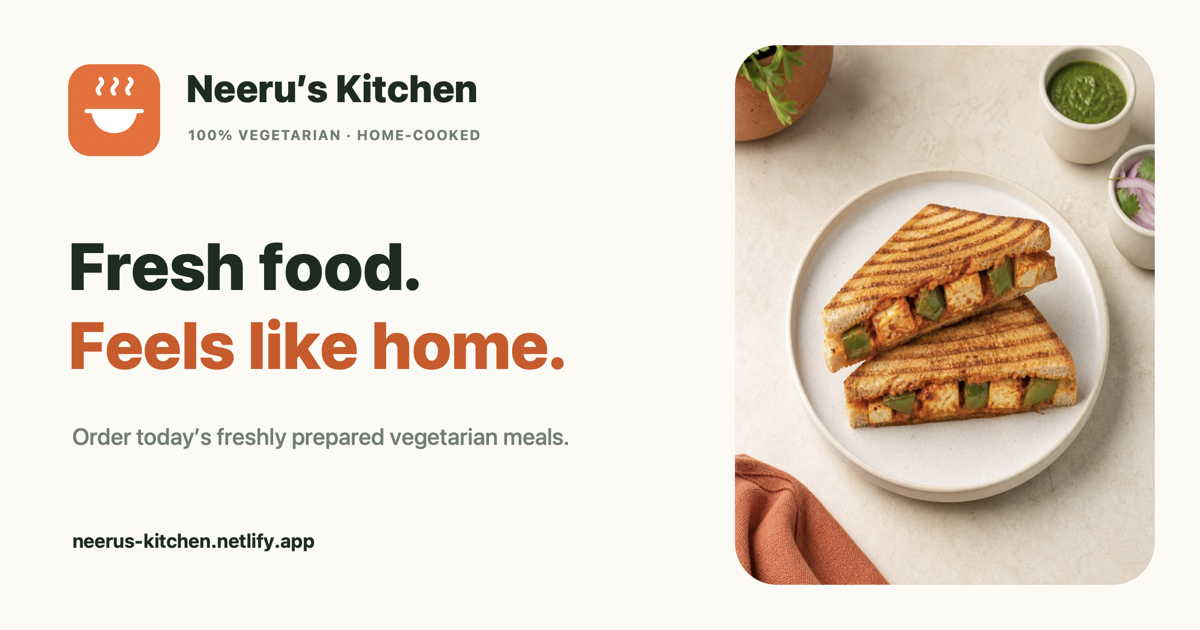
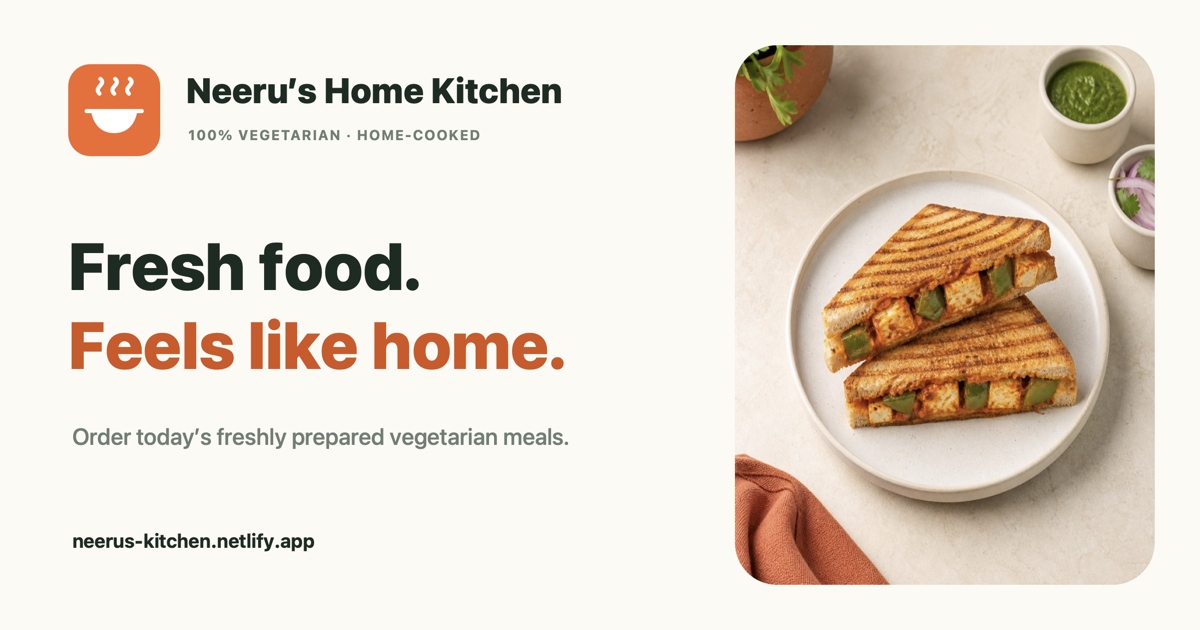
Rename app to Neeru's Home Kitchen

Changed region(s): [[0.1542, 0.1206, 0.4625, 0.181]]

diff --git a/admin.html b/admin.html
@@ -6,31 +6,31 @@
     <meta name="color-scheme" content="light" />
     <meta name="theme-color" content="#ee5728" />
     <meta name="apple-mobile-web-app-status-bar-style" content="default" />
-    <meta name="description" content="Private family order management for Neeru’s Kitchen." />
+    <meta name="description" content="Private family order management for Neeru’s Home Kitchen." />
     <link rel="canonical" href="https://neerus-kitchen.netlify.app/admin" />
     <meta property="og:type" content="website" />
-    <meta property="og:url" content="https://neerus-kitchen.netlify.app/admin?share=4" />
-    <meta property="og:site_name" content="Neeru’s Kitchen" />
-    <meta property="og:title" content="Neeru’s Kitchen · Family Order Desk" />
-    <meta property="og:description" content="Private family access to manage Neeru’s Kitchen orders." />
-    <meta property="og:image" content="https://neerus-kitchen.netlify.app/neerus-kitchen-whatsapp-v4.jpg" />
-    <meta property="og:image:url" content="https://neerus-kitchen.netlify.app/neerus-kitchen-whatsapp-v4.jpg" />
-    <meta property="og:image:secure_url" content="https://neerus-kitchen.netlify.app/neerus-kitchen-whatsapp-v4.jpg" />
+    <meta property="og:url" content="https://neerus-kitchen.netlify.app/admin?share=5" />
+    <meta property="og:site_name" content="Neeru’s Home Kitchen" />
+    <meta property="og:title" content="Neeru’s Home Kitchen · Family Order Desk" />
+    <meta property="og:description" content="Private family access to manage Neeru’s Home Kitchen orders." />
+    <meta property="og:image" content="https://neerus-kitchen.netlify.app/neerus-home-kitchen-whatsapp-v5.jpg" />
+    <meta property="og:image:url" content="https://neerus-kitchen.netlify.app/neerus-home-kitchen-whatsapp-v5.jpg" />
+    <meta property="og:image:secure_url" content="https://neerus-kitchen.netlify.app/neerus-home-kitchen-whatsapp-v5.jpg" />
     <meta property="og:image:type" content="image/jpeg" />
     <meta property="og:image:width" content="1200" />
     <meta property="og:image:height" content="1200" />
-    <meta property="og:image:alt" content="Neeru’s Kitchen — fresh vegetarian food that feels like home" />
+    <meta property="og:image:alt" content="Neeru’s Home Kitchen — fresh vegetarian food that feels like home" />
     <meta name="twitter:card" content="summary_large_image" />
-    <meta name="twitter:title" content="Neeru’s Kitchen · Family Order Desk" />
-    <meta name="twitter:description" content="Private family access to manage Neeru’s Kitchen orders." />
-    <meta name="twitter:image" content="https://neerus-kitchen.netlify.app/neerus-kitchen-whatsapp-v4.jpg" />
-    <meta name="twitter:image:alt" content="Neeru’s Kitchen — fresh vegetarian food that feels like home" />
-    <link rel="image_src" href="https://neerus-kitchen.netlify.app/neerus-kitchen-whatsapp-v4.jpg" />
-    <meta itemprop="image" content="https://neerus-kitchen.netlify.app/neerus-kitchen-whatsapp-v4.jpg" />
+    <meta name="twitter:title" content="Neeru’s Home Kitchen · Family Order Desk" />
+    <meta name="twitter:description" content="Private family access to manage Neeru’s Home Kitchen orders." />
+    <meta name="twitter:image" content="https://neerus-kitchen.netlify.app/neerus-home-kitchen-whatsapp-v5.jpg" />
+    <meta name="twitter:image:alt" content="Neeru’s Home Kitchen — fresh vegetarian food that feels like home" />
+    <link rel="image_src" href="https://neerus-kitchen.netlify.app/neerus-home-kitchen-whatsapp-v5.jpg" />
+    <meta itemprop="image" content="https://neerus-kitchen.netlify.app/neerus-home-kitchen-whatsapp-v5.jpg" />
     <link rel="icon" href="/favicon.svg" type="image/svg+xml" />
     <link rel="apple-touch-icon" href="/apple-touch-icon.png" />
     <link rel="manifest" href="/site.webmanifest" />
-    <title>Neeru’s Kitchen · Family Order Desk</title>
+    <title>Neeru’s Home Kitchen · Family Order Desk</title>
   </head>
   <body>
     <div id="root"></div>

diff --git a/index.html b/index.html
@@ -6,31 +6,31 @@
     <meta name="color-scheme" content="light" />
     <meta name="theme-color" content="#ee5728" />
     <meta name="apple-mobile-web-app-status-bar-style" content="default" />
-    <meta name="description" content="Fresh vegetarian home-cooked meals, prepared with care by Neeru’s Kitchen." />
+    <meta name="description" content="Fresh vegetarian home-cooked meals, prepared with care by Neeru’s Home Kitchen." />
     <link rel="canonical" href="https://neerus-kitchen.netlify.app/" />
     <meta property="og:type" content="website" />
-    <meta property="og:url" content="https://neerus-kitchen.netlify.app/?share=4" />
-    <meta property="og:site_name" content="Neeru’s Kitchen" />
-    <meta property="og:title" content="Neeru’s Kitchen · Vegetarian Home Kitchen" />
+    <meta property="og:url" content="https://neerus-kitchen.netlify.app/?share=5" />
+    <meta property="og:site_name" content="Neeru’s Home Kitchen" />
+    <meta property="og:title" content="Neeru’s Home Kitchen · Vegetarian Meals" />
     <meta property="og:description" content="Fresh vegetarian home-cooked meals, prepared with care. See today’s menu and order online." />
-    <meta property="og:image" content="https://neerus-kitchen.netlify.app/neerus-kitchen-whatsapp-v4.jpg" />
-    <meta property="og:image:url" content="https://neerus-kitchen.netlify.app/neerus-kitchen-whatsapp-v4.jpg" />
-    <meta property="og:image:secure_url" content="https://neerus-kitchen.netlify.app/neerus-kitchen-whatsapp-v4.jpg" />
+    <meta property="og:image" content="https://neerus-kitchen.netlify.app/neerus-home-kitchen-whatsapp-v5.jpg" />
+    <meta property="og:image:url" content="https://neerus-kitchen.netlify.app/neerus-home-kitchen-whatsapp-v5.jpg" />
+    <meta property="og:image:secure_url" content="https://neerus-kitchen.netlify.app/neerus-home-kitchen-whatsapp-v5.jpg" />
     <meta property="og:image:type" content="image/jpeg" />
     <meta property="og:image:width" content="1200" />
     <meta property="og:image:height" content="1200" />
-    <meta property="og:image:alt" content="Neeru’s Kitchen — fresh vegetarian food that feels like home" />
+    <meta property="og:image:alt" content="Neeru’s Home Kitchen — fresh vegetarian food that feels like home" />
     <meta name="twitter:card" content="summary_large_image" />
-    <meta name="twitter:title" content="Neeru’s Kitchen · Vegetarian Home Kitchen" />
+    <meta name="twitter:title" content="Neeru’s Home Kitchen · Vegetarian Meals" />
     <meta name="twitter:description" content="Fresh vegetarian home-cooked meals, prepared with care." />
-    <meta name="twitter:image" content="https://neerus-kitchen.netlify.app/neerus-kitchen-whatsapp-v4.jpg" />
-    <meta name="twitter:image:alt" content="Neeru’s Kitchen — fresh vegetarian food that feels like home" />
-    <link rel="image_src" href="https://neerus-kitchen.netlify.app/neerus-kitchen-whatsapp-v4.jpg" />
-    <meta itemprop="image" content="https://neerus-kitchen.netlify.app/neerus-kitchen-whatsapp-v4.jpg" />
+    <meta name="twitter:image" content="https://neerus-kitchen.netlify.app/neerus-home-kitchen-whatsapp-v5.jpg" />
+    <meta name="twitter:image:alt" content="Neeru’s Home Kitchen — fresh vegetarian food that feels like home" />
+    <link rel="image_src" href="https://neerus-kitchen.netlify.app/neerus-home-kitchen-whatsapp-v5.jpg" />
+    <meta itemprop="image" content="https://neerus-kitchen.netlify.app/neerus-home-kitchen-whatsapp-v5.jpg" />
     <link rel="icon" href="/favicon.svg" type="image/svg+xml" />
     <link rel="apple-touch-icon" href="/apple-touch-icon.png" />
     <link rel="manifest" href="/site.webmanifest" />
-    <title>Neeru’s Kitchen · Vegetarian Home Kitchen</title>
+    <title>Neeru’s Home Kitchen · Vegetarian Meals</title>
   </head>
   <body>
     <div id="root"></div>

diff --git a/src/storefront.tsx b/src/storefront.tsx
@@ -109,7 +109,7 @@ const defaultSettings: StoreSettings = {
   ordering_open: true,
   hero_message: "Fresh home-style food, prepared with care and delivered to your door.",
   upi_id: "krsnasolo@okicici",
-  merchant_name: "Neeru's Kitchen",
+  merchant_name: "Neeru's Home Kitchen",
   order_cutoff: null,
   whatsapp_number: "918483000013",
 };
@@ -223,7 +223,7 @@ export function Storefront() {
     if (!data) return;
     const next = data as Profile;
     if (next.access_status !== "approved") {
-      setNotice(next.access_status === "rejected" ? "This access request was declined. Please contact Neeru’s Kitchen." : "Your account is waiting for kitchen approval.");
+      setNotice(next.access_status === "rejected" ? "This access request was declined. Please contact Neeru’s Home Kitchen." : "Your account is waiting for kitchen approval.");
       await supabase.auth.signOut();
       return;
     }
@@ -252,7 +252,7 @@ export function Storefront() {
     ? `+91 ${whatsappNumber.slice(2, 7)} ${whatsappNumber.slice(7)}`
     : whatsappNumber ? `+${whatsappNumber}` : "";
   const whatsappHref = whatsappNumber
-    ? `https://wa.me/${whatsappNumber}?text=${encodeURIComponent("Hi Neeru's Kitchen, I have a question about today's menu or my order.")}`
+    ? `https://wa.me/${whatsappNumber}?text=${encodeURIComponent("Hi Neeru's Home Kitchen, I have a question about today's menu or my order.")}`
     : "";
 
   function setQuantity(id: string, quantity: number) {
@@ -284,9 +284,9 @@ export function Storefront() {
       </button>
       <div className="storefront">
       <header className="store-header">
-        <button className="store-brand" onClick={() => go("menu")}><StoreLogo /><span><strong>Neeru’s Kitchen</strong><small>100% VEGETARIAN · HOME-COOKED</small></span></button>
+        <button className="store-brand" onClick={() => go("menu")}><StoreLogo /><span><strong>Neeru’s Home Kitchen</strong><small>100% VEGETARIAN · HOME-COOKED</small></span></button>
         <div className="store-header-actions">
-          {whatsappHref && <a className="store-contact-link" href={whatsappHref} target="_blank" rel="noreferrer" aria-label={`Contact Neeru's Kitchen on WhatsApp ${whatsappDisplay}`}><MessageCircle /><span>WhatsApp</span></a>}
+          {whatsappHref && <a className="store-contact-link" href={whatsappHref} target="_blank" rel="noreferrer" aria-label={`Contact Neeru's Home Kitchen on WhatsApp ${whatsappDisplay}`}><MessageCircle /><span>WhatsApp</span></a>}
           <a className="family-link" href="/admin">Family desk</a>
           <button className={`header-cart-button ${view === "cart" ? "active" : ""}`} onClick={() => go("cart")} aria-label={cartCount ? `Cart, ${cartCount} items, ${formatMoney(cartTotal)}` : "Cart, empty"}>
             <span className="header-cart-icon"><ShoppingBag />{cartCount > 0 && <b>{cartCount}</b>}</span>
@@ -325,10 +325,10 @@ export function Storefront() {
         <button className={`cart-nav ${view === "cart" ? "active" : ""}`} onClick={() => go("cart")}><span className="cart-icon"><ShoppingBag />{cartCount > 0 && <b>{cartCount}</b>}</span><span>Cart</span></button>
       </nav>
 
-      {authOpen && <CustomerAuth onClose={() => setAuthOpen(false)} onSuccess={() => { setAuthOpen(false); setNotice("Welcome to Neeru’s Kitchen."); }} />}
+      {authOpen && <CustomerAuth onClose={() => setAuthOpen(false)} onSuccess={() => { setAuthOpen(false); setNotice("Welcome to Neeru’s Home Kitchen."); }} />}
       {checkoutOpen && profile && <CheckoutModal lines={cartLines} total={cartTotal} profile={profile} settings={settings} onClose={() => setCheckoutOpen(false)} onEditProfile={() => { setCheckoutOpen(false); setView("account"); }} onPlaced={(order) => { setCheckoutOpen(false); setPlacedOrder(order); setCart({}); loadOrders(); }} />}
       {placedOrder && <PaymentModal order={placedOrder} settings={settings} onClose={() => { setPlacedOrder(null); go("orders"); }} />}
-      {whatsappHref && <a className="store-whatsapp" href={whatsappHref} target="_blank" rel="noreferrer" aria-label="Message Neeru's Kitchen on WhatsApp" title={`WhatsApp ${whatsappDisplay}`}><MessageCircle /><span><b>WhatsApp us</b><small>{whatsappDisplay}</small></span></a>}
+      {whatsappHref && <a className="store-whatsapp" href={whatsappHref} target="_blank" rel="noreferrer" aria-label="Message Neeru's Home Kitchen on WhatsApp" title={`WhatsApp ${whatsappDisplay}`}><MessageCircle /><span><b>WhatsApp us</b><small>{whatsappDisplay}</small></span></a>}
       </div>
     </div>
   );
@@ -351,7 +351,7 @@ function CartView({ lines, total, orderingOpen, onQuantity, onBack, onCheckout }
 }
 
 function OrdersView({ orders, onBack }: { orders: CustomerOrder[]; onBack: () => void }) {
-  return <section className="store-subpage"><button className="store-back" onClick={onBack}><ArrowLeft /> Back to menu</button><div className="subpage-heading"><span className="store-eyebrow">ORDER HISTORY</span><h1>My orders</h1><p>Follow every meal from Neeru’s kitchen to your door.</p></div>{orders.length ? <div className="customer-orders">{orders.map((order) => <article key={order.id}><div className="customer-order-head"><span><b>#{order.id.slice(0, 8).toUpperCase()}</b><small>{new Intl.DateTimeFormat("en-IN", { day: "numeric", month: "short", hour: "numeric", minute: "2-digit" }).format(new Date(order.created_at))}</small></span><strong>{formatMoney(Number(order.amount))}</strong></div><p>{order.order_details}</p><div className="customer-order-status"><span className={`order-stage ${order.stage}`}><i />{stageLabels[order.stage] || order.stage}</span><span className={`payment-state ${order.payment_status}`}>{order.payment_status === "verified" ? <Check /> : <Clock3 />}{order.payment_status === "verified" ? "Paid" : order.payment_status === "submitted" ? "Payment sent" : "Payment pending"}</span></div></article>)}</div> : <div className="store-empty"><ReceiptText /><b>No orders yet</b><span>Your first home-cooked meal will appear here.</span><button onClick={onBack}>Explore the menu</button></div>}</section>;
+  return <section className="store-subpage"><button className="store-back" onClick={onBack}><ArrowLeft /> Back to menu</button><div className="subpage-heading"><span className="store-eyebrow">ORDER HISTORY</span><h1>My orders</h1><p>Follow every meal from Neeru’s Home Kitchen to your door.</p></div>{orders.length ? <div className="customer-orders">{orders.map((order) => <article key={order.id}><div className="customer-order-head"><span><b>#{order.id.slice(0, 8).toUpperCase()}</b><small>{new Intl.DateTimeFormat("en-IN", { day: "numeric", month: "short", hour: "numeric", minute: "2-digit" }).format(new Date(order.created_at))}</small></span><strong>{formatMoney(Number(order.amount))}</strong></div><p>{order.order_details}</p><div className="customer-order-status"><span className={`order-stage ${order.stage}`}><i />{stageLabels[order.stage] || order.stage}</span><span className={`payment-state ${order.payment_status}`}>{order.payment_status === "verified" ? <Check /> : <Clock3 />}{order.payment_status === "verified" ? "Paid" : order.payment_status === "submitted" ? "Payment sent" : "Payment pending"}</span></div></article>)}</div> : <div className="store-empty"><ReceiptText /><b>No orders yet</b><span>Your first home-cooked meal will appear here.</span><button onClick={onBack}>Explore the menu</button></div>}</section>;
 }
 
 function CustomerAuth({ onClose, onSuccess }: { onClose: () => void; onSuccess: () => void }) {
@@ -407,7 +407,7 @@ function CustomerAuth({ onClose, onSuccess }: { onClose: () => void; onSuccess: 
         if (accessError || access?.access_status !== "approved") {
           await supabase.auth.signOut();
           setBusy(false);
-          return setMessage(access?.access_status === "rejected" ? "This access request was declined. Please contact Neeru’s Kitchen." : "Your request is waiting for kitchen approval. Please try again after the family confirms it.");
+          return setMessage(access?.access_status === "rejected" ? "This access request was declined. Please contact Neeru’s Home Kitchen." : "Your request is waiting for kitchen approval. Please try again after the family confirms it.");
         }
         setBusy(false);
         onSuccess();
@@ -426,7 +426,7 @@ function CustomerAuth({ onClose, onSuccess }: { onClose: () => void; onSuccess: 
         return setMessage(error.message);
       }
       setMessageIsSuccess(true);
-      setMessage("Request sent to Neeru’s Kitchen. A family admin will approve your account, then you can sign in with this number and PIN.");
+      setMessage("Request sent to Neeru’s Home Kitchen. A family admin will approve your account, then you can sign in with this number and PIN.");
       return;
     }
 
@@ -573,7 +573,7 @@ function PaymentModal({ order, settings, onClose }: { order: CustomerOrder; sett
   const [reference, setReference] = useState("");
   const [message, setMessage] = useState("");
   const [copyMessage, setCopyMessage] = useState("");
-  const note = `Neeru order ${order.id.slice(0, 8).toUpperCase()}`;
+  const note = `Neeru's Home Kitchen order ${order.id.slice(0, 8).toUpperCase()}`;
   const paymentQuery = settings.upi_id ? new URLSearchParams({ pa: settings.upi_id, pn: settings.merchant_name, am: Number(order.amount).toFixed(2), cu: "INR", tn: note }).toString() : "";
   const paymentUri = paymentQuery ? `upi://pay?${paymentQuery}` : "";
   const isAndroid = /Android/i.test(navigator.userAgent);
@@ -637,7 +637,7 @@ function PaymentModal({ order, settings, onClose }: { order: CustomerOrder; sett
         <span className="payment-success"><Check /></span>
         <span className="store-eyebrow">ORDER RECEIVED</span>
         <h2>Thank you!</h2>
-        <p>Order <b>#{order.id.slice(0, 8).toUpperCase()}</b> has been sent to Neeru’s Kitchen.</p>
+        <p>Order <b>#{order.id.slice(0, 8).toUpperCase()}</b> has been sent to Neeru’s Home Kitchen.</p>
         <div className="payment-total"><span>Amount to pay</span><strong>{formatMoney(Number(order.amount))}</strong></div>
         {paymentUri ? (
           <>
@@ -645,7 +645,7 @@ function PaymentModal({ order, settings, onClose }: { order: CustomerOrder; sett
               {qr ? <img src={qr} alt="UPI payment QR" /> : <span className="payment-qr-loading"><i className="store-loader" />Preparing QR…</span>}
               <div>
                 <b>Pay with any UPI app</b>
-                <small>{qrKind === "custom" ? "Scan Neeru’s Kitchen QR from another screen, or choose your payment app below." : "Scan from another screen, or choose your payment app below."}</small>
+                <small>{qrKind === "custom" ? "Scan Neeru’s Home Kitchen QR from another screen, or choose your payment app below." : "Scan from another screen, or choose your payment app below."}</small>
                 <div className="upi-app-actions">
                   <a className="gpay-action" href={googlePayUri}>Google Pay</a>
                   {paytmUri && <a className="paytm-action" href={paytmUri}>Paytm</a>}

diff --git a/scripts/generate-share-assets.swift b/scripts/generate-share-assets.swift
@@ -21,6 +21,19 @@ func writeJPEG(_ image: NSImage, name: String, quality: CGFloat = 0.82) throws {
   try jpeg.write(to: outputDirectory.appendingPathComponent(name))
 }
 
+func resizeAsset(_ name: String, width: Int, height: Int) throws {
+  let process = Process()
+  process.executableURL = URL(fileURLWithPath: "/usr/bin/sips")
+  process.arguments = ["-z", String(height), String(width), outputDirectory.appendingPathComponent(name).path]
+  process.standardOutput = FileHandle.nullDevice
+  process.standardError = FileHandle.nullDevice
+  try process.run()
+  process.waitUntilExit()
+  guard process.terminationStatus == 0 else {
+    throw NSError(domain: "NeerusKitchenAssets", code: 3)
+  }
+}
+
 func drawLogo(in rect: NSRect) {
   NSColor(calibratedRed: 0.93, green: 0.32, blue: 0.13, alpha: 1).setFill()
   NSBezierPath(roundedRect: rect, xRadius: rect.width * 0.24, yRadius: rect.width * 0.24).fill()
@@ -89,7 +102,7 @@ drawLogo(in: NSRect(x: 68, y: 474, width: 92, height: 92))
 let ink = NSColor(calibratedRed: 0.08, green: 0.13, blue: 0.10, alpha: 1)
 let muted = NSColor(calibratedRed: 0.36, green: 0.42, blue: 0.38, alpha: 1)
 let orange = NSColor(calibratedRed: 0.79, green: 0.24, blue: 0.08, alpha: 1)
-drawText("Neeru’s Kitchen", at: NSPoint(x: 186, y: 520), font: .systemFont(ofSize: 38, weight: .heavy), color: ink)
+drawText("Neeru’s Home Kitchen", at: NSPoint(x: 186, y: 520), font: .systemFont(ofSize: 35, weight: .heavy), color: ink)
 drawText("100% VEGETARIAN · HOME-COOKED", at: NSPoint(x: 188, y: 487), font: .systemFont(ofSize: 14, weight: .bold), color: muted, tracking: 1.3)
 drawText("Fresh food.", at: NSPoint(x: 68, y: 326), font: .systemFont(ofSize: 66, weight: .heavy), color: ink)
 drawText("Feels like home.", at: NSPoint(x: 68, y: 247), font: .systemFont(ofSize: 66, weight: .heavy), color: orange)
@@ -97,6 +110,9 @@ drawText("Order today’s freshly prepared vegetarian meals.", at: NSPoint(x: 72
 drawText("neerus-kitchen.netlify.app", at: NSPoint(x: 72, y: 77), font: .systemFont(ofSize: 19, weight: .bold), color: ink)
 card.unlockFocus()
 try writePNG(card, name: "neerus-kitchen-share.png")
+try writeJPEG(card, name: "neerus-kitchen-share-v2.jpg", quality: 0.84)
+try resizeAsset("neerus-kitchen-share.png", width: 1200, height: 630)
+try resizeAsset("neerus-kitchen-share-v2.jpg", width: 1200, height: 630)
 
 // WhatsApp often renders a compact square thumbnail. Keep the logo and food
 // recognizable even when the image is reduced to roughly 80 × 80 pixels.
@@ -106,7 +122,7 @@ NSColor(calibratedRed: 0.985, green: 0.975, blue: 0.945, alpha: 1).setFill()
 NSRect(x: 0, y: 0, width: 600, height: 600).fill()
 
 drawLogo(in: NSRect(x: 38, y: 476, width: 88, height: 88))
-drawText("Neeru’s Kitchen", at: NSPoint(x: 150, y: 518), font: .systemFont(ofSize: 32, weight: .heavy), color: ink)
+drawText("Neeru’s Home Kitchen", at: NSPoint(x: 150, y: 518), font: .systemFont(ofSize: 27, weight: .heavy), color: ink)
 drawText("100% VEGETARIAN · HOME-COOKED", at: NSPoint(x: 152, y: 487), font: .systemFont(ofSize: 11, weight: .bold), color: muted, tracking: 0.9)
 drawText("Fresh food.", at: NSPoint(x: 40, y: 355), font: .systemFont(ofSize: 48, weight: .heavy), color: ink)
 drawText("Feels like home.", at: NSPoint(x: 40, y: 297), font: .systemFont(ofSize: 48, weight: .heavy), color: orange)
@@ -129,6 +145,7 @@ if let photo = NSImage(contentsOf: photoURL) {
 
 whatsappCard.unlockFocus()
 try writeJPEG(whatsappCard, name: "neerus-kitchen-whatsapp-v4.jpg", quality: 0.80)
+try writeJPEG(whatsappCard, name: "neerus-home-kitchen-whatsapp-v5.jpg", quality: 0.82)
 
 for size in [180, 192, 512] {
   let icon = NSImage(size: NSSize(width: size, height: size))
@@ -140,4 +157,5 @@ for size in [180, 192, 512] {
   icon.unlockFocus()
   let name = size == 180 ? "apple-touch-icon.png" : "icon-\(size).png"
   try writePNG(icon, name: name)
+  try resizeAsset(name, width: size, height: size)
 }

diff --git a/src/main.tsx b/src/main.tsx
@@ -220,7 +220,7 @@ export function AdminApp() {
   const [recoveringPassword, setRecoveringPassword] = useState(false);
   const [adminChecked, setAdminChecked] = useState(false);
   const [isAdmin, setIsAdmin] = useState(false);
-  const [storeSettings, setStoreSettings] = useState<AdminStoreSettings>({ ordering_open: true, hero_message: "Fresh home-style food, prepared with care and delivered to your door.", upi_id: "krsnasolo@okicici", merchant_name: "Neeru's Kitchen", order_cutoff: "", whatsapp_number: "918483000013" });
+  const [storeSettings, setStoreSettings] = useState<AdminStoreSettings>({ ordering_open: true, hero_message: "Fresh home-style food, prepared with care and delivered to your door.", upi_id: "krsnasolo@okicici", merchant_name: "Neeru's Home Kitchen", order_cutoff: "", whatsapp_number: "918483000013" });
 
   useEffect(() => {
     if (!supabase) return;
@@ -684,7 +684,7 @@ export function AdminApp() {
             <button className="brand" onClick={() => openScreen("orders")} aria-label="Open orders">
               <LogoMark />
               <span className="brand-copy">
-                <strong>Neeru’s Kitchen</strong>
+                <strong>Neeru’s Home Kitchen</strong>
                 <small>HOME KITCHEN · ORDER DESK</small>
               </span>
             </button>
@@ -850,7 +850,7 @@ function Login({ dark }: { dark: boolean }) {
       <section className="login-card">
         <LogoMark />
         <p className="eyebrow">PRIVATE FAMILY APP</p>
-        <h1>Neeru’s Kitchen</h1>
+        <h1>Neeru’s Home Kitchen</h1>
         <p>One secure place for the family to manage daily kitchen orders.</p>
         <form onSubmit={signIn}>
           <label>Email address<input type="email" value={email} onChange={(e) => setEmail(e.target.value)} placeholder="[email redacted]" autoComplete="email" required /></label>
@@ -993,7 +993,7 @@ function MenuScreen({ items, settings, onSaveSettings, onDaily, onAdd, onEdit, o
   useEffect(() => setForm(settings), [settings]);
   useEffect(() => {
     if (!form.upi_id.trim()) return setUpiQr("");
-    const uri = `upi://pay?pa=${encodeURIComponent(form.upi_id.trim())}&pn=${encodeURIComponent(form.merchant_name || "Neeru's Kitchen")}&cu=INR&tn=${encodeURIComponent("Neeru's Kitchen payment preview")}`;
+    const uri = `upi://pay?pa=${encodeURIComponent(form.upi_id.trim())}&pn=${encodeURIComponent(form.merchant_name || "Neeru's Home Kitchen")}&cu=INR&tn=${encodeURIComponent("Neeru's Home Kitchen payment preview")}`;
     QRCode.toDataURL(uri, { width: 180, margin: 1, color: { dark: "#17211b", light: "#ffffff" } }).then(setUpiQr);
   }, [form.upi_id, form.merchant_name]);
   const set = <K extends keyof AdminStoreSettings>(key: K, value: AdminStoreSettings[K]) => setForm((current) => ({ ...current, [key]: value }));
@@ -1244,7 +1244,7 @@ function SettingsScreen({ large, dark, selectedDate, customerCount, accessReques
           <form className="settings-form payment-settings-form" onSubmit={savePayment}>
             <div className="payment-settings-fields">
               <label><span>UPI ID</span><input value={paymentForm.upi_id} onChange={(event) => setPaymentForm((current) => ({ ...current, upi_id: event.target.value }))} placeholder="name@bank" inputMode="email" aria-invalid={paymentForm.upi_id.length > 0 && !upiLooksValid} required />{paymentForm.upi_id.length > 0 && !upiLooksValid && <small className="field-hint error">Use a UPI ID such as krsnasolo@okicici</small>}</label>
-              <label><span>Payee name</span><input value={paymentForm.merchant_name} onChange={(event) => setPaymentForm((current) => ({ ...current, merchant_name: event.target.value }))} placeholder="Neeru's Kitchen" required /></label>
+              <label><span>Payee name</span><input value={paymentForm.merchant_name} onChange={(event) => setPaymentForm((current) => ({ ...current, merchant_name: event.target.value }))} placeholder="Neeru's Home Kitchen" required /></label>
             </div>
             <div className="qr-uploader">
               <div className="qr-preview-box">
@@ -1471,7 +1471,7 @@ function Choice({ label, options, value, onChange }: { label: string; options: s
 
 function Root() {
   const isAdmin = window.location.pathname.startsWith("/admin");
-  document.title = isAdmin ? "Neeru’s Kitchen · Family Order Desk" : "Neeru’s Kitchen · Vegetarian Home Kitchen";
+  document.title = isAdmin ? "Neeru’s Home Kitchen · Family Order Desk" : "Neeru’s Home Kitchen · Vegetarian Meals";
   return isAdmin ? <AdminApp /> : <Storefront />;
 }
 

diff --git a/src/storefront.css b/src/storefront.css
@@ -264,8 +264,8 @@
   .store-brand { gap: 9px; }
   .store-logo { width: 39px; height: 39px; flex-basis: 39px; border-radius: 12px; }
   .store-logo svg { width: 28px; }
-  .store-brand strong { font-size: 17px; }
-  .store-brand small { font-size: 6.2px; letter-spacing: .08em; }
+  .store-brand strong { font-size: 16px; line-height: 1.02; }
+  .store-brand small { font-size: 5.8px; letter-spacing: .065em; white-space: nowrap; }
   .family-link { display: none; }
   .store-header-actions { gap: 6px; }
   .store-contact-link { width: 42px; min-height: 42px; justify-content: center; padding: 0; border-radius: 13px; box-shadow: 0 7px 18px rgba(29,143,80,.3), inset 0 0 0 1px rgba(255,255,255,.16); }
@@ -275,8 +275,8 @@
   .header-cart-copy { display: none; }
   .account-button { width: 40px; min-width: 40px; height: 40px; padding: 0; border-radius: 12px; }
   .account-button span { display: none; }
-  .account-button.sign-in { width: auto; padding: 0 9px; }
-  .account-button.sign-in span { display: inline; }
+  .account-button.sign-in { width: 40px; padding: 0; }
+  .account-button.sign-in span { display: none; }
   .store-main { width: 100%; padding: 0 14px 118px; overflow-x: clip; }
   .store-hero { min-height: 0; grid-template-columns: 1fr; gap: 28px; padding: 31px 0 35px; }
   .hero-copy h1 { margin: 10px 0 15px; font-size: clamp(43px, 13.5vw, 57px); }

diff --git a/PROJECT_RECORD.md b/PROJECT_RECORD.md
@@ -1,8 +1,8 @@
-# Neeru's Kitchen — Project Record
+# Neeru's Home Kitchen — Project Record
 
 Last updated: 22 July 2026
 
-This file records the accounts and services used to operate the Neeru's Kitchen family order manager. It intentionally contains no passwords, API keys, recovery codes, or other secrets.
+This file records the accounts and services used to operate the Neeru's Home Kitchen family order manager. It intentionally contains no passwords, API keys, recovery codes, or other secrets.
 
 ## GitHub
 